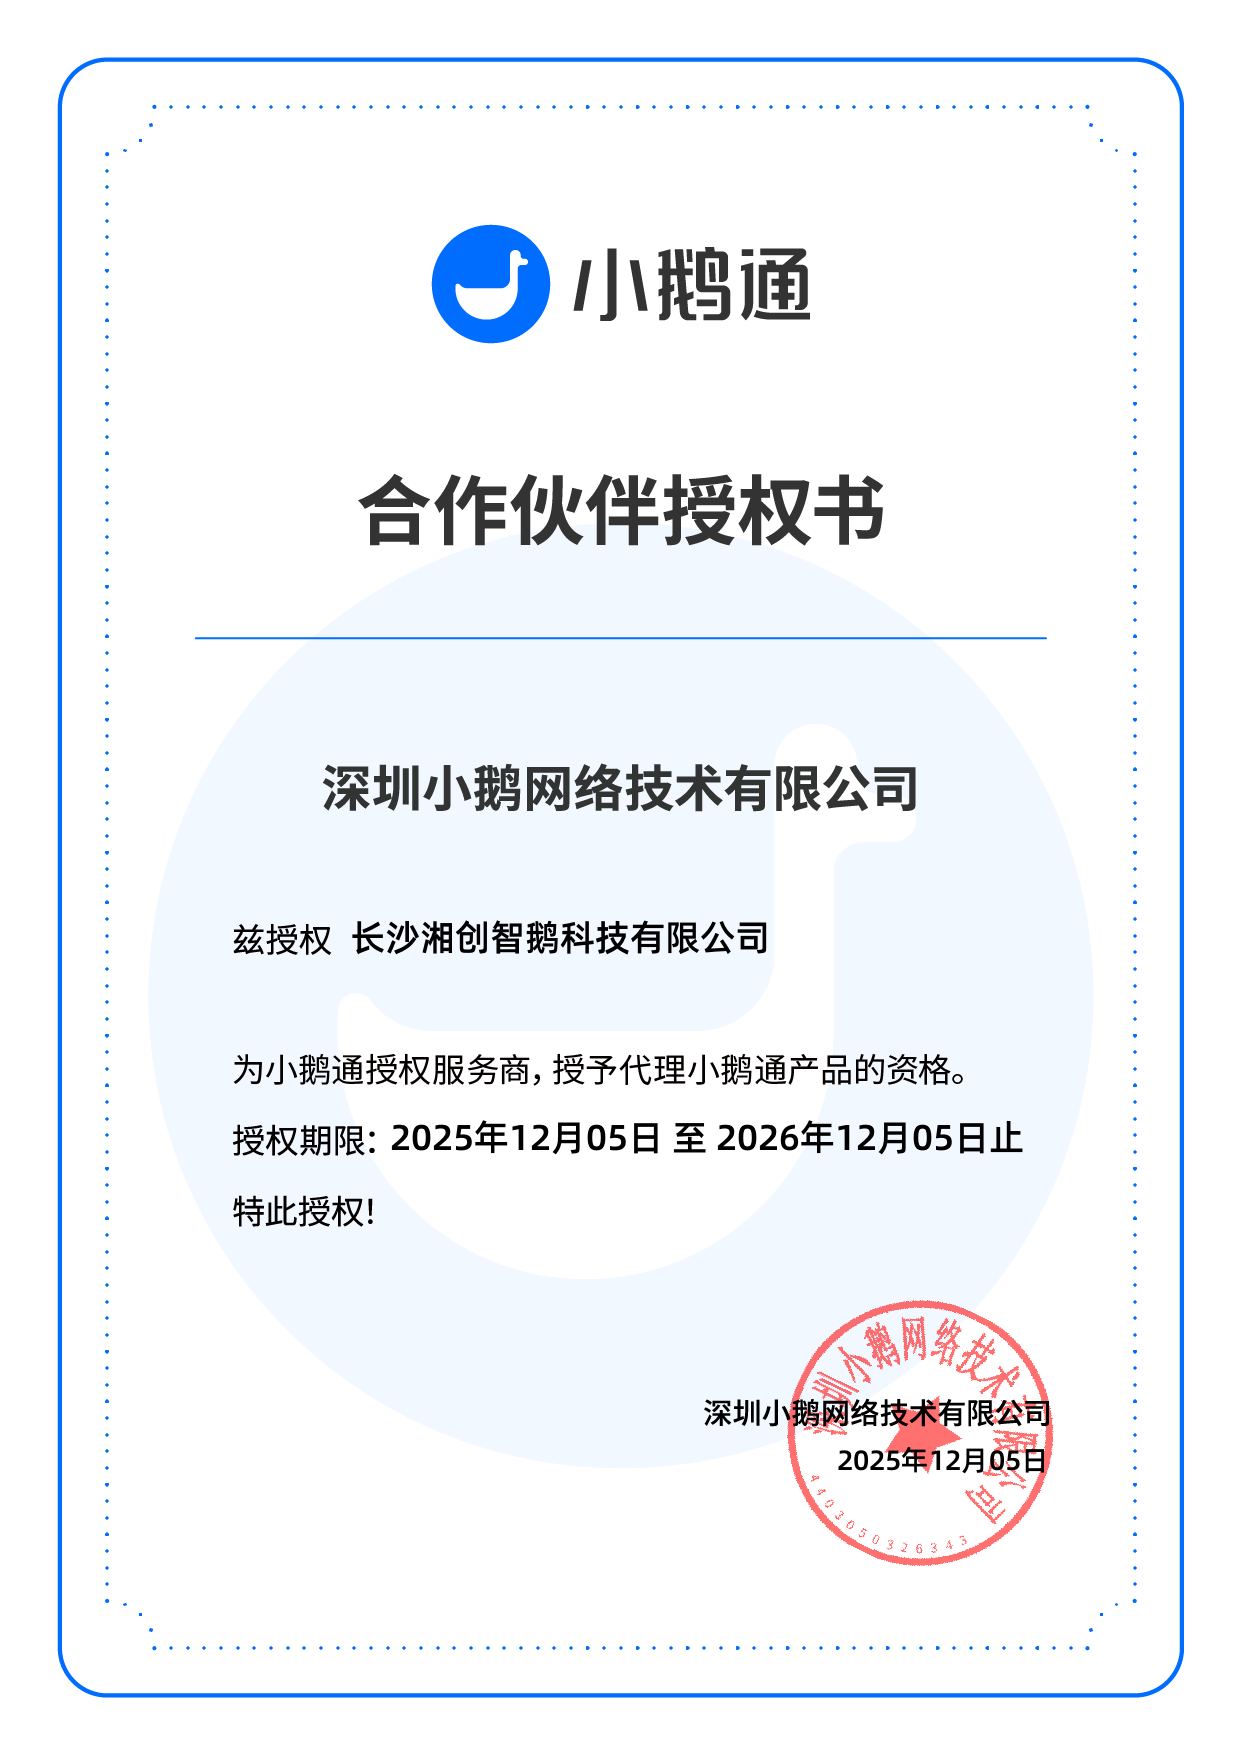
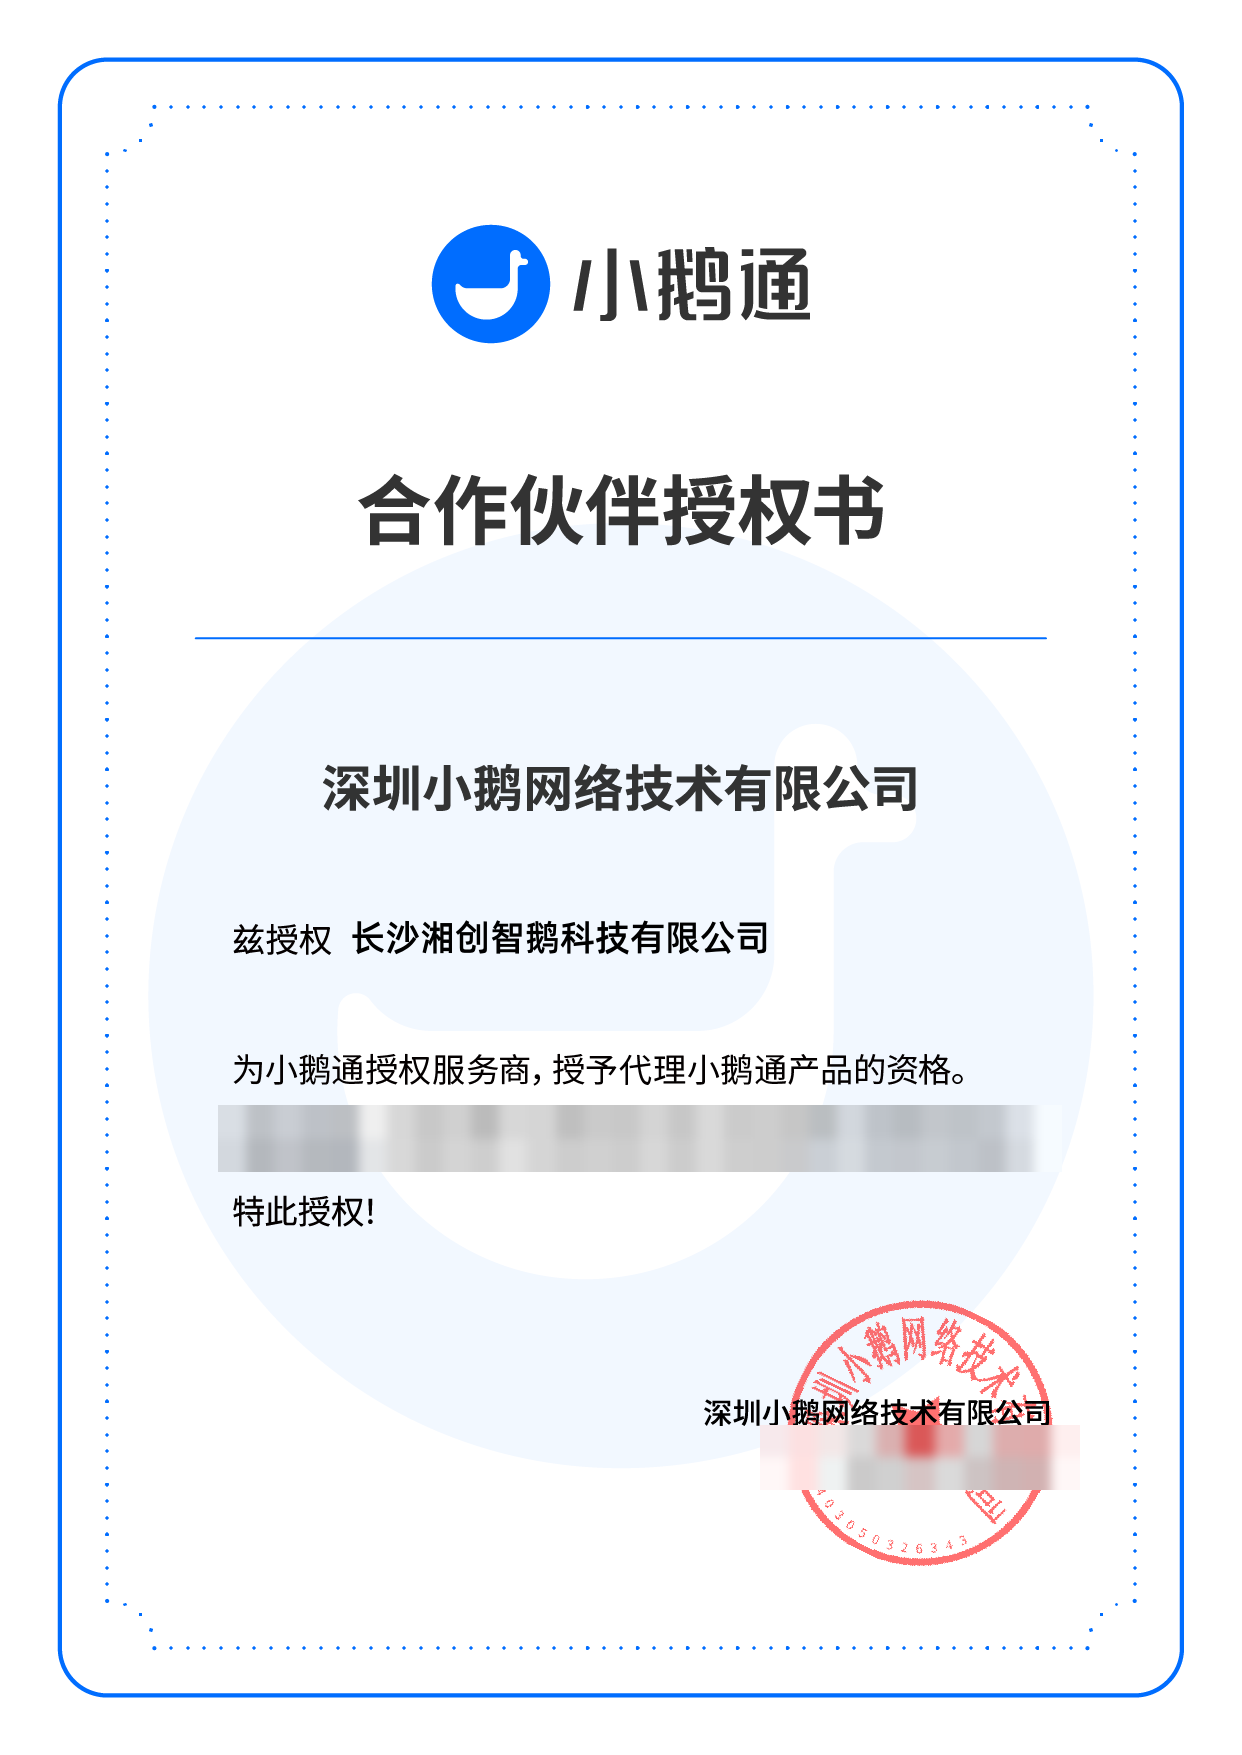
授权书日期打码

Changed region(s): [[0.153, 0.6154, 0.8261, 0.6769], [0.6119, 0.8, 0.8567, 0.8615]]

diff --git a/xiaoe/about.html b/xiaoe/about.html
@@ -51,17 +51,17 @@
       <div class="about-txt reveal">
         <p class="about-lead">主理人小饭，AI 数字化实操派。别人卖完软件就结束，我们负责让软件在你店里真的跑起来：从需求诊断、店铺搭建，到团队培训、AI 运营工具陪跑，一路跟到出结果。</p>
         <ul class="about-cred">
-          <li><span class="ck">✓</span><div><b>官方授权，可核验</b>授权主体：长沙湘创智鹅科技有限公司，授权期限 2025.12.05 至 2026.12.05，右侧为授权书原件。</div></li>
+          <li><span class="ck">✓</span><div><b>官方授权，可核验</b>授权主体：长沙湘创智鹅科技有限公司，授权期限以授权书原件为准。</div></li>
           <li><span class="ck">✓</span><div><b>产品官方直供</b>系统、价格与官方一致，我们赚的是服务费，不赚差价。</div></li>
           <li><span class="ck">✓</span><div><b>本地团队 + AI 双引擎</b>长沙团队可上门服务，配套 WorkBuddy AI 工具包，一个人也跑得动运营。</div></li>
         </ul>
       </div>
       <figure class="about-cert reveal">
-        <button class="cert-frame" type="button" data-qr="auth-cert.png" data-qr-title="小鹅通合作伙伴授权书" data-qr-note="深圳小鹅网络技术有限公司授权 · 授权期限 2025.12.05 - 2026.12.05" data-qr-big="1" aria-label="查看授权书大图">
+        <button class="cert-frame" type="button" data-qr="auth-cert.png" data-qr-title="小鹅通合作伙伴授权书" data-qr-note="深圳小鹅网络技术有限公司授权 · 授权期限以授权书为准" data-qr-big="1" aria-label="查看授权书大图">
           <img src="auth-cert.png" alt="小鹅通合作伙伴授权书 - 长沙湘创智鹅科技有限公司" loading="lazy">
           <span class="cert-zoom">🔍 点击查看大图</span>
         </button>
-        <figcaption>小鹅通合作伙伴授权书 · 授权期限 2025.12.05 - 2026.12.05</figcaption>
+        <figcaption>小鹅通合作伙伴授权书 · 授权期限以授权书为准</figcaption>
       </figure>
     </div>
   </div>

diff --git a/xiaoe/index.html b/xiaoe/index.html
@@ -48,7 +48,7 @@
         <a href="#contact" class="btn btn-primary">免费试用 →</a>
         <a href="industry.html" class="btn btn-ghost">查看行业方案</a>
       </div>
-      <button class="cert-mini" type="button" data-qr="auth-cert.png" data-qr-title="小鹅通合作伙伴授权书" data-qr-note="深圳小鹅网络技术有限公司授权 · 授权期限 2025.12.05 - 2026.12.05" data-qr-big="1" aria-label="查看授权书大图">
+      <button class="cert-mini" type="button" data-qr="auth-cert.png" data-qr-title="小鹅通合作伙伴授权书" data-qr-note="深圳小鹅网络技术有限公司授权 · 授权期限以授权书为准" data-qr-big="1" aria-label="查看授权书大图">
         <img src="auth-cert.png" alt="小鹅通合作伙伴授权书">
         <span class="cert-mini-txt">
           <b>🛡 官方授权服务商</b>
